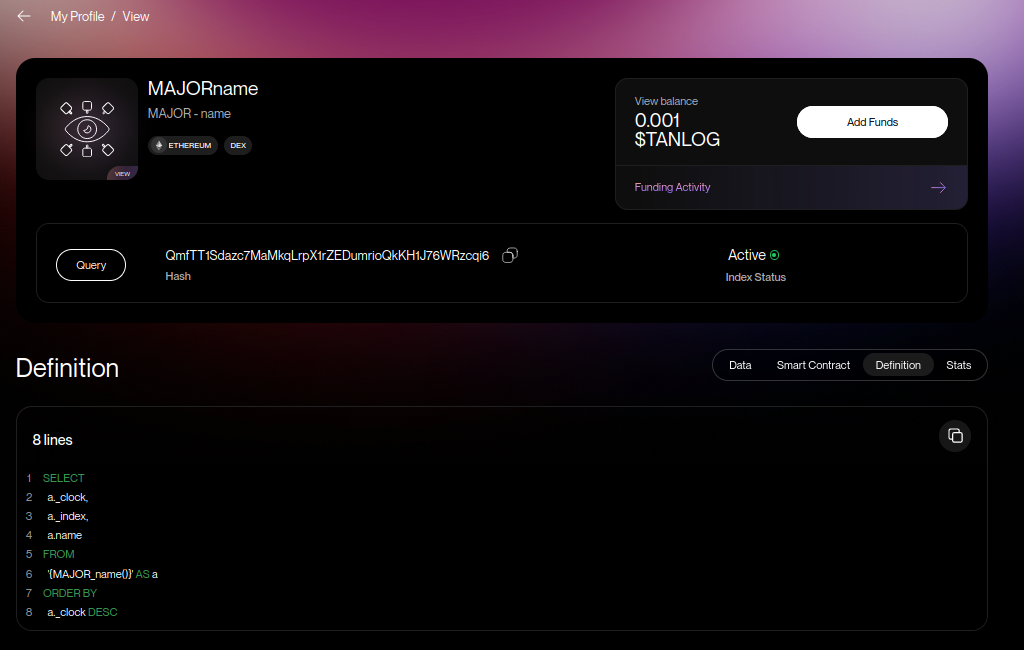
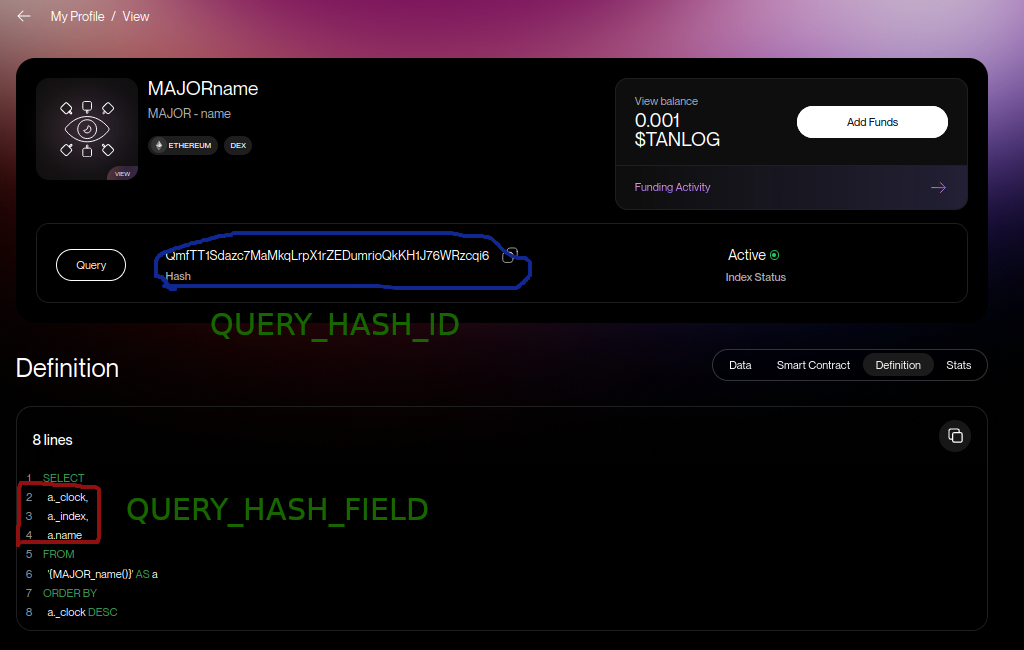
update readme

diff --git a/sdk/README.md b/sdk/README.md
@@ -6,7 +6,7 @@
 
 ## Подготовка окружения
 
-Копируем env файл и настраиваем окружение
+Копируем env файл и настраиваем окружение в файле
 
 ```
 cp .env-example .env
@@ -19,6 +19,9 @@ cp .env-example .env
 - **QUERY_HASH_ID** хеш вашего профинансированного представления. Найти можно в [профиле](https://watch.testnet.analog.one/#/profile) во вкладке **Funded Views**
 
 - **QUERY_HASH_FIELD** поле которые хотим вывести. Найти можно в **Definition** представления
+
+Пример для QUERY_HASH:
+QUERY_HASH_ID="QmfTT1Sdazc7MaMkqLrpX1rZEDumrioQkKH1J76WRzcqi6" и QUERY_HASH_FIELD="name"
 
 ![plot](./img/view.png)
 
